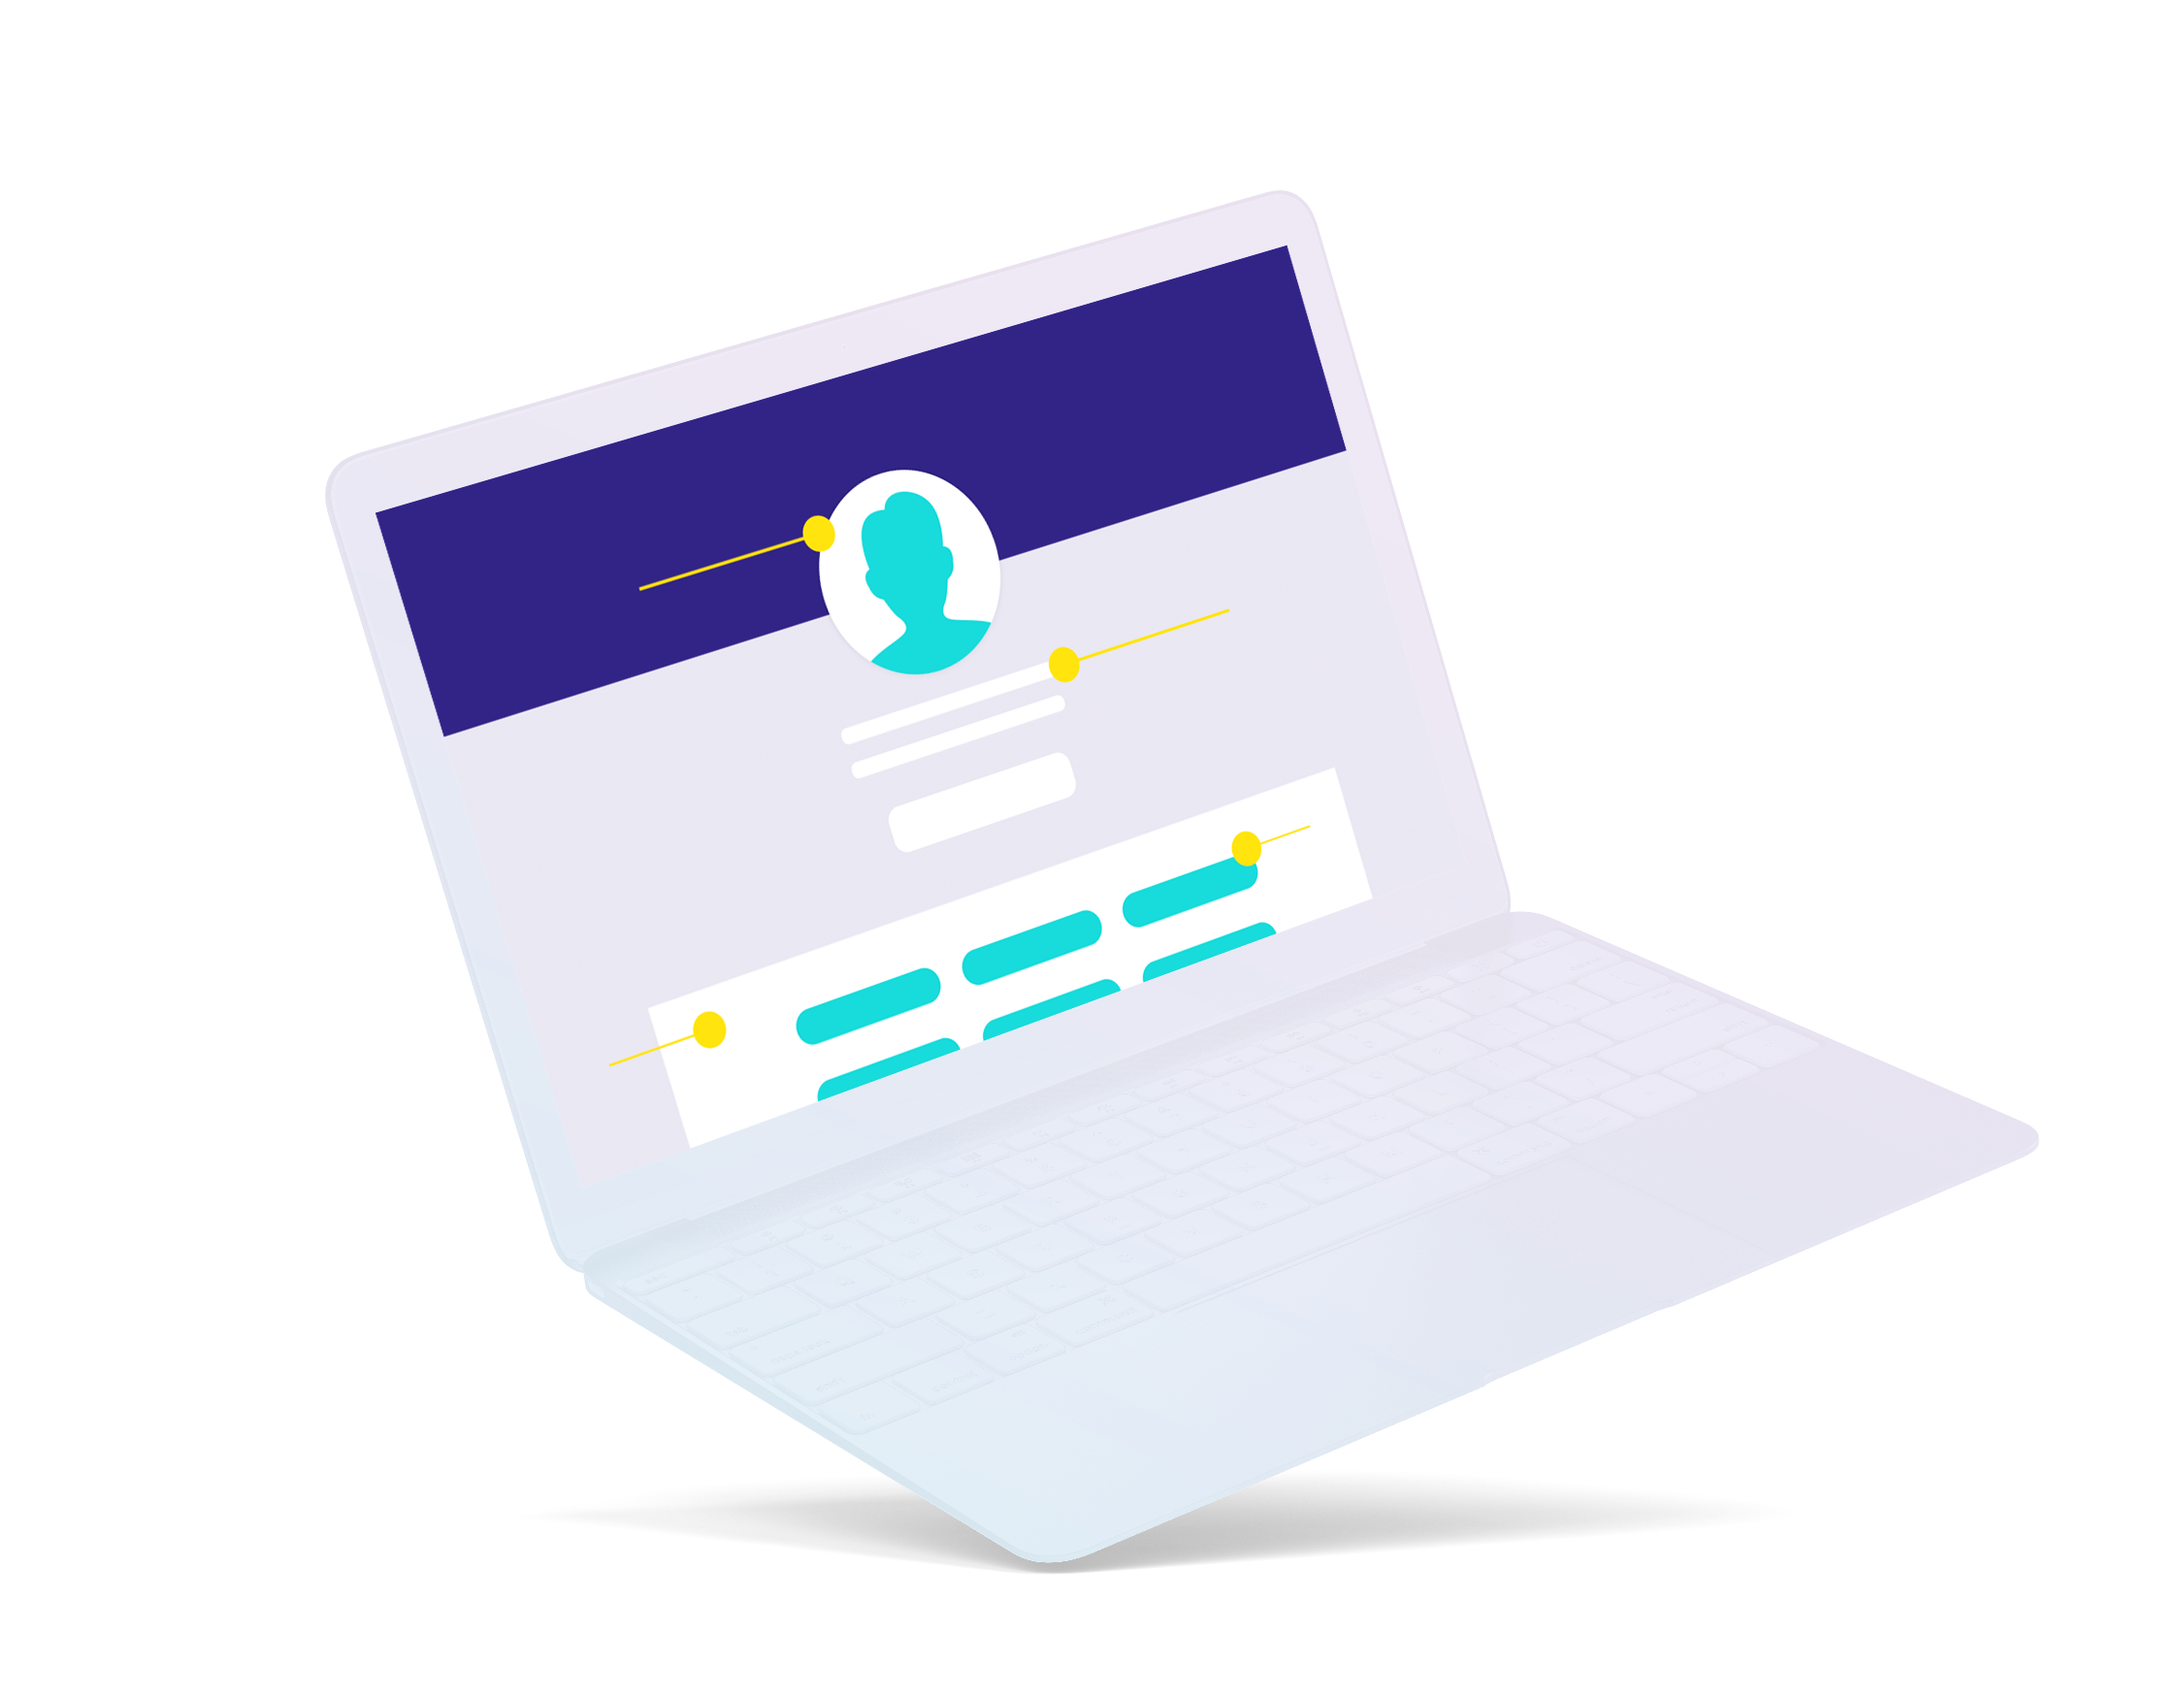
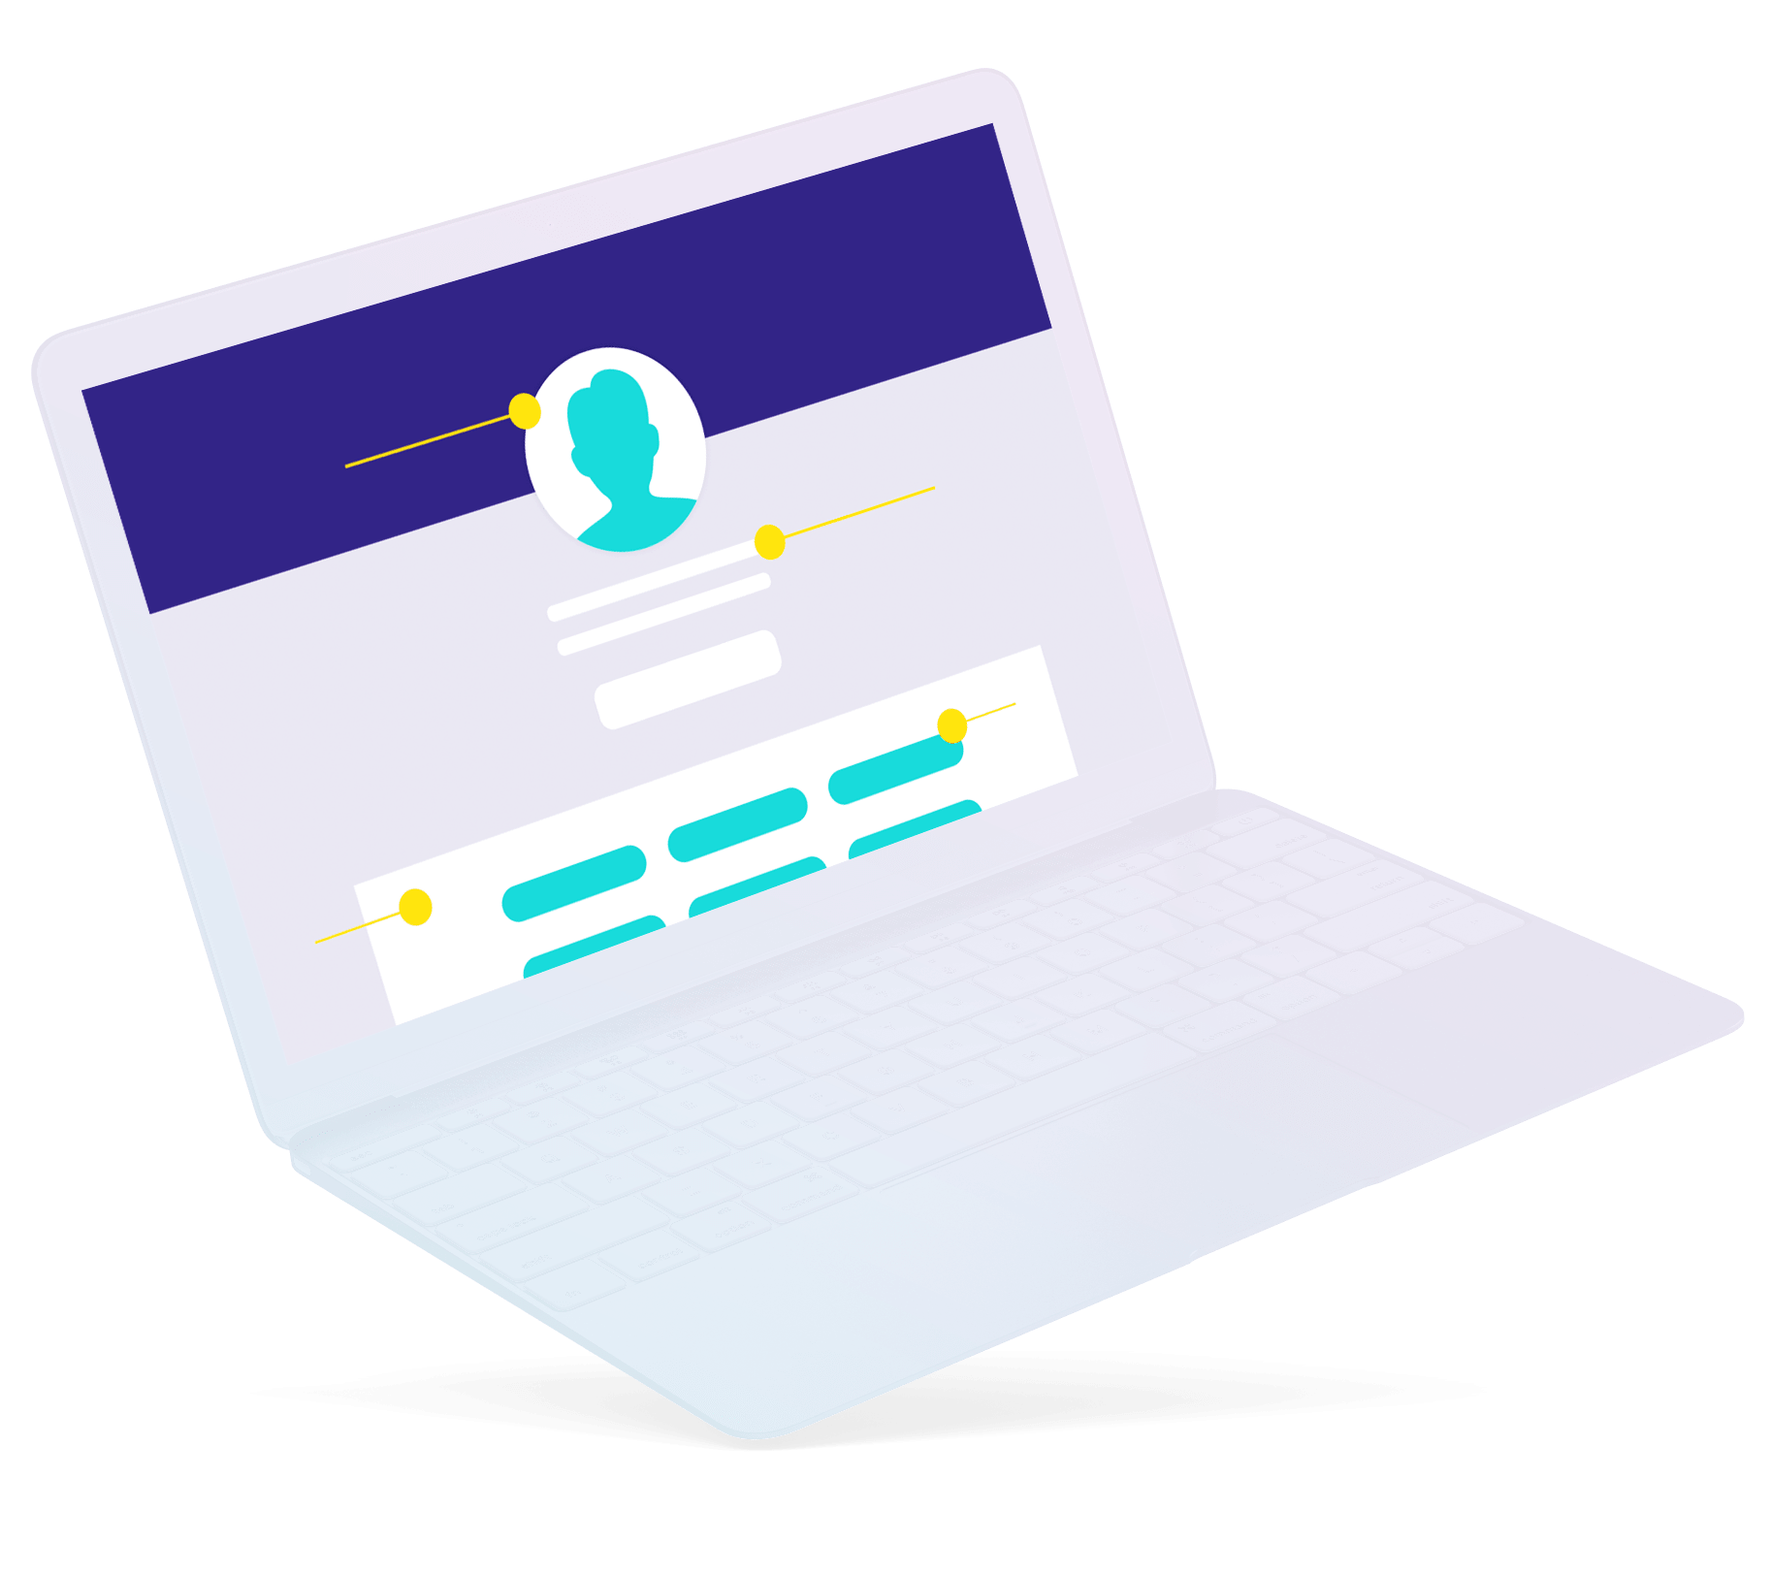
Optimised laptop image

diff --git a/index.php b/index.php
@@ -24,7 +24,7 @@
 					</div>
 					<div class="order-1 order-sm-2 col-10 col-sm-5 col-md-4">
 						<div class="img-container">
-							<img src="img/laptop-03.png" alt="laptop">
+							<img src="img/laptop.png" alt="laptop">
 						</div>
 					</div>
 				</div>
